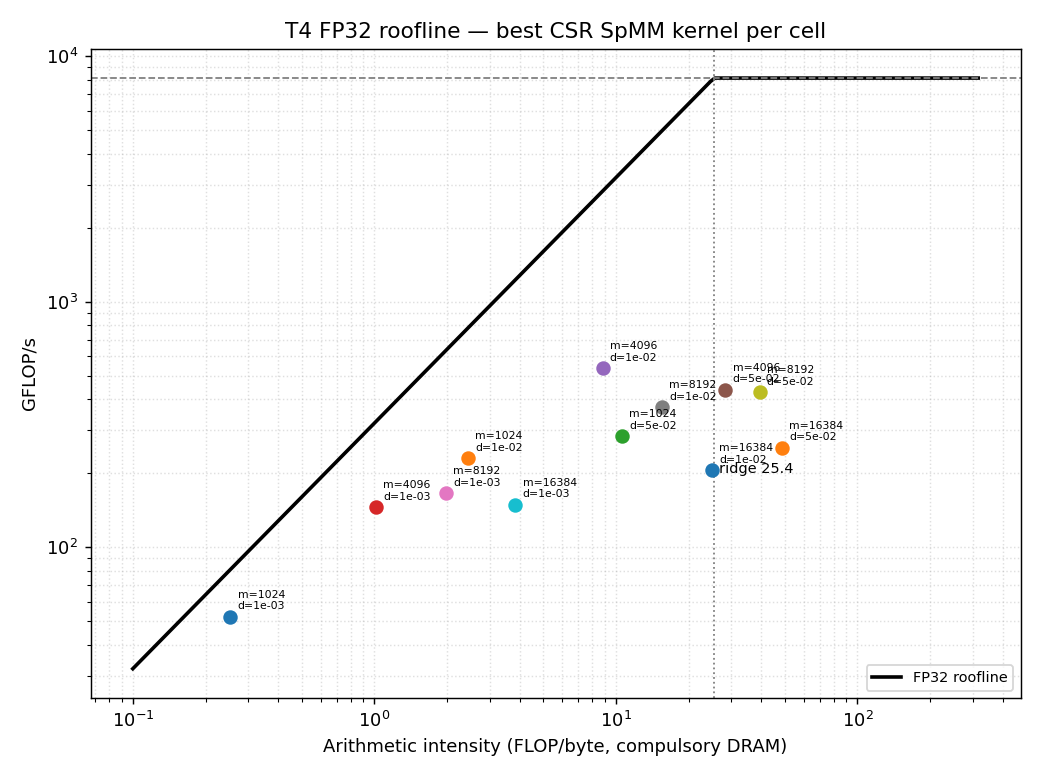
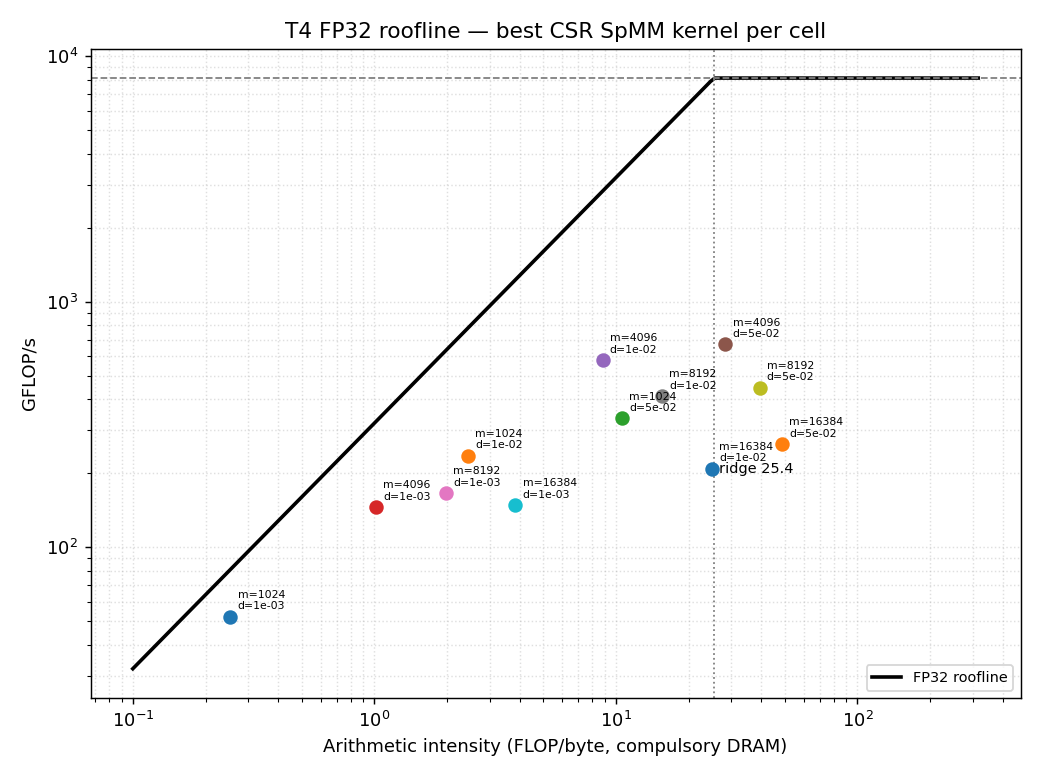
Changes

diff --git a/README.md b/README.md
@@ -16,7 +16,7 @@ where Nsight Compute counters are accessible).
 | 3 | Tensor Core acceleration (block-sparse on T4)                     | ✅ done (BSR 16×16 + WMMA; loses on random sparsity from fill-in, but 851 GFLOP/s / up to 1.81× on structured block-diagonal — see the Tensor-Core and roofline reports) |
 | 4 | Hybrid execution (CUDA cores vs. Tensor Cores)                    | ✅ done (structure-aware auto-dispatch in `spmm_hybrid`; routes by BSR fill-in) |
 | 5 | Memory-aware execution (unified memory / multi-GPU)               | ✅ done (nnz-balanced dual-GPU row split + unified-memory path in `spmm_multigpu`; measured **2.40× on 2×T4** at m=16384 d=0.01 — 199→478 GFLOP/s) |
-| 6 | Performance evaluation across patterns and sizes                  | 🟡 ongoing      |
+| 6 | Performance evaluation across patterns and sizes                  | ✅ done (4 patterns × 4 sizes swept end-to-end; Tensor Cores win big on banded — up to **7.8×** at m=8192 — and block-diagonal, while CSR wins on uniform and power-law where fill-in starves the Tensor Cores; speedup + memory-utilization graphs in `reports/figures/`) |
 | 7 | Final integrated system                                           | ✅ done (`spmm_run` end-to-end driver: auto-dispatch, multi-GPU/unified, cuSPARSE-verified) |
 
 **Latest report:** [reports/roofline_analysis.md](reports/roofline_analysis.md) —